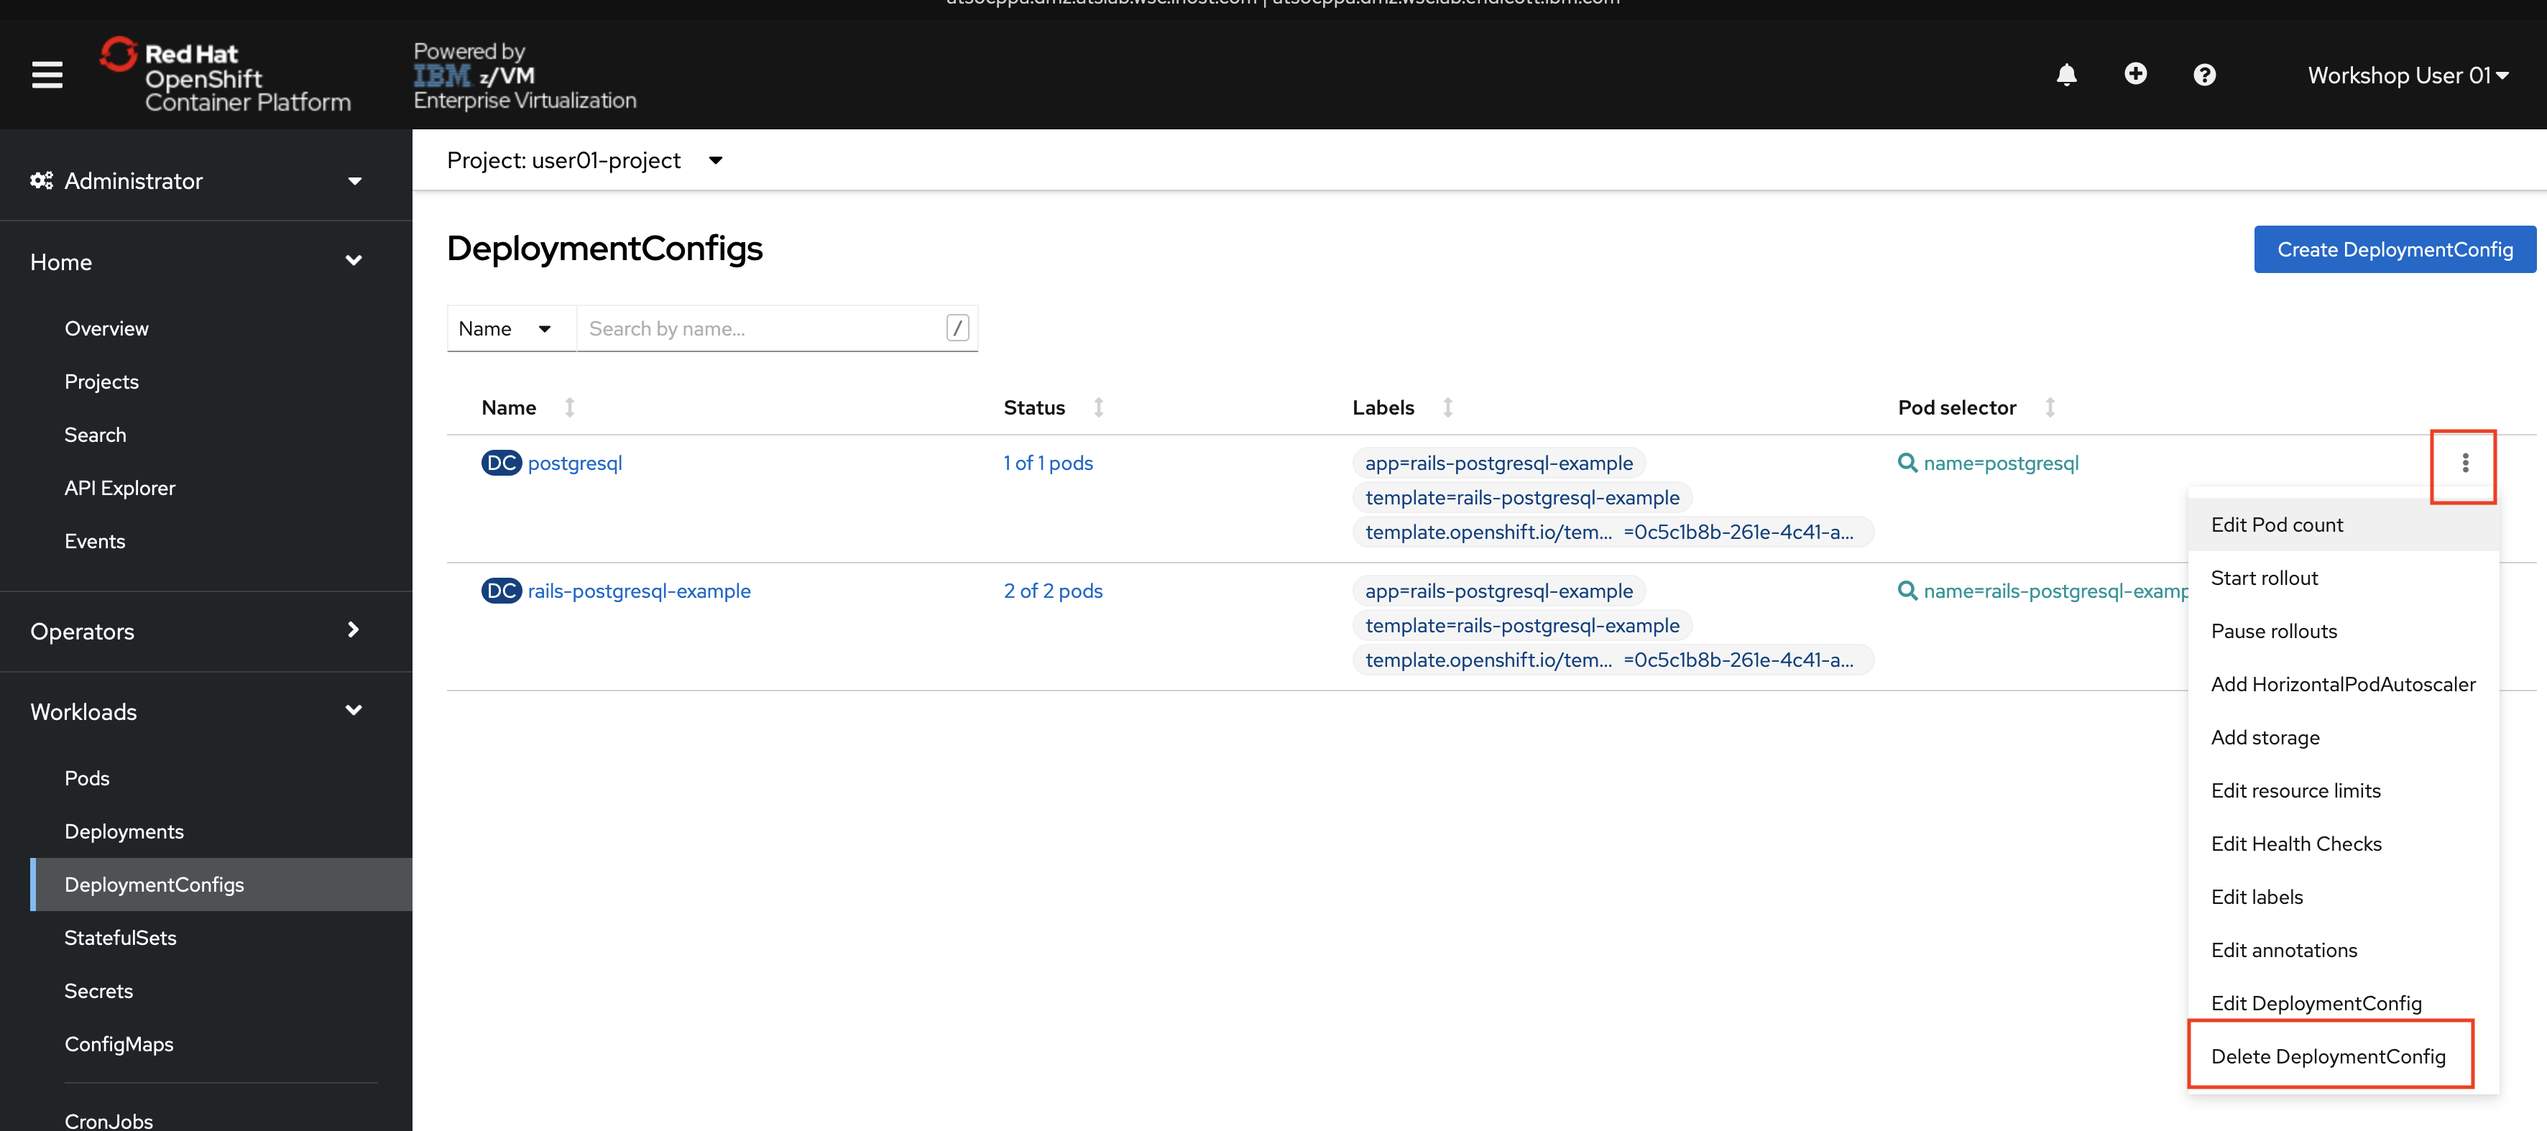
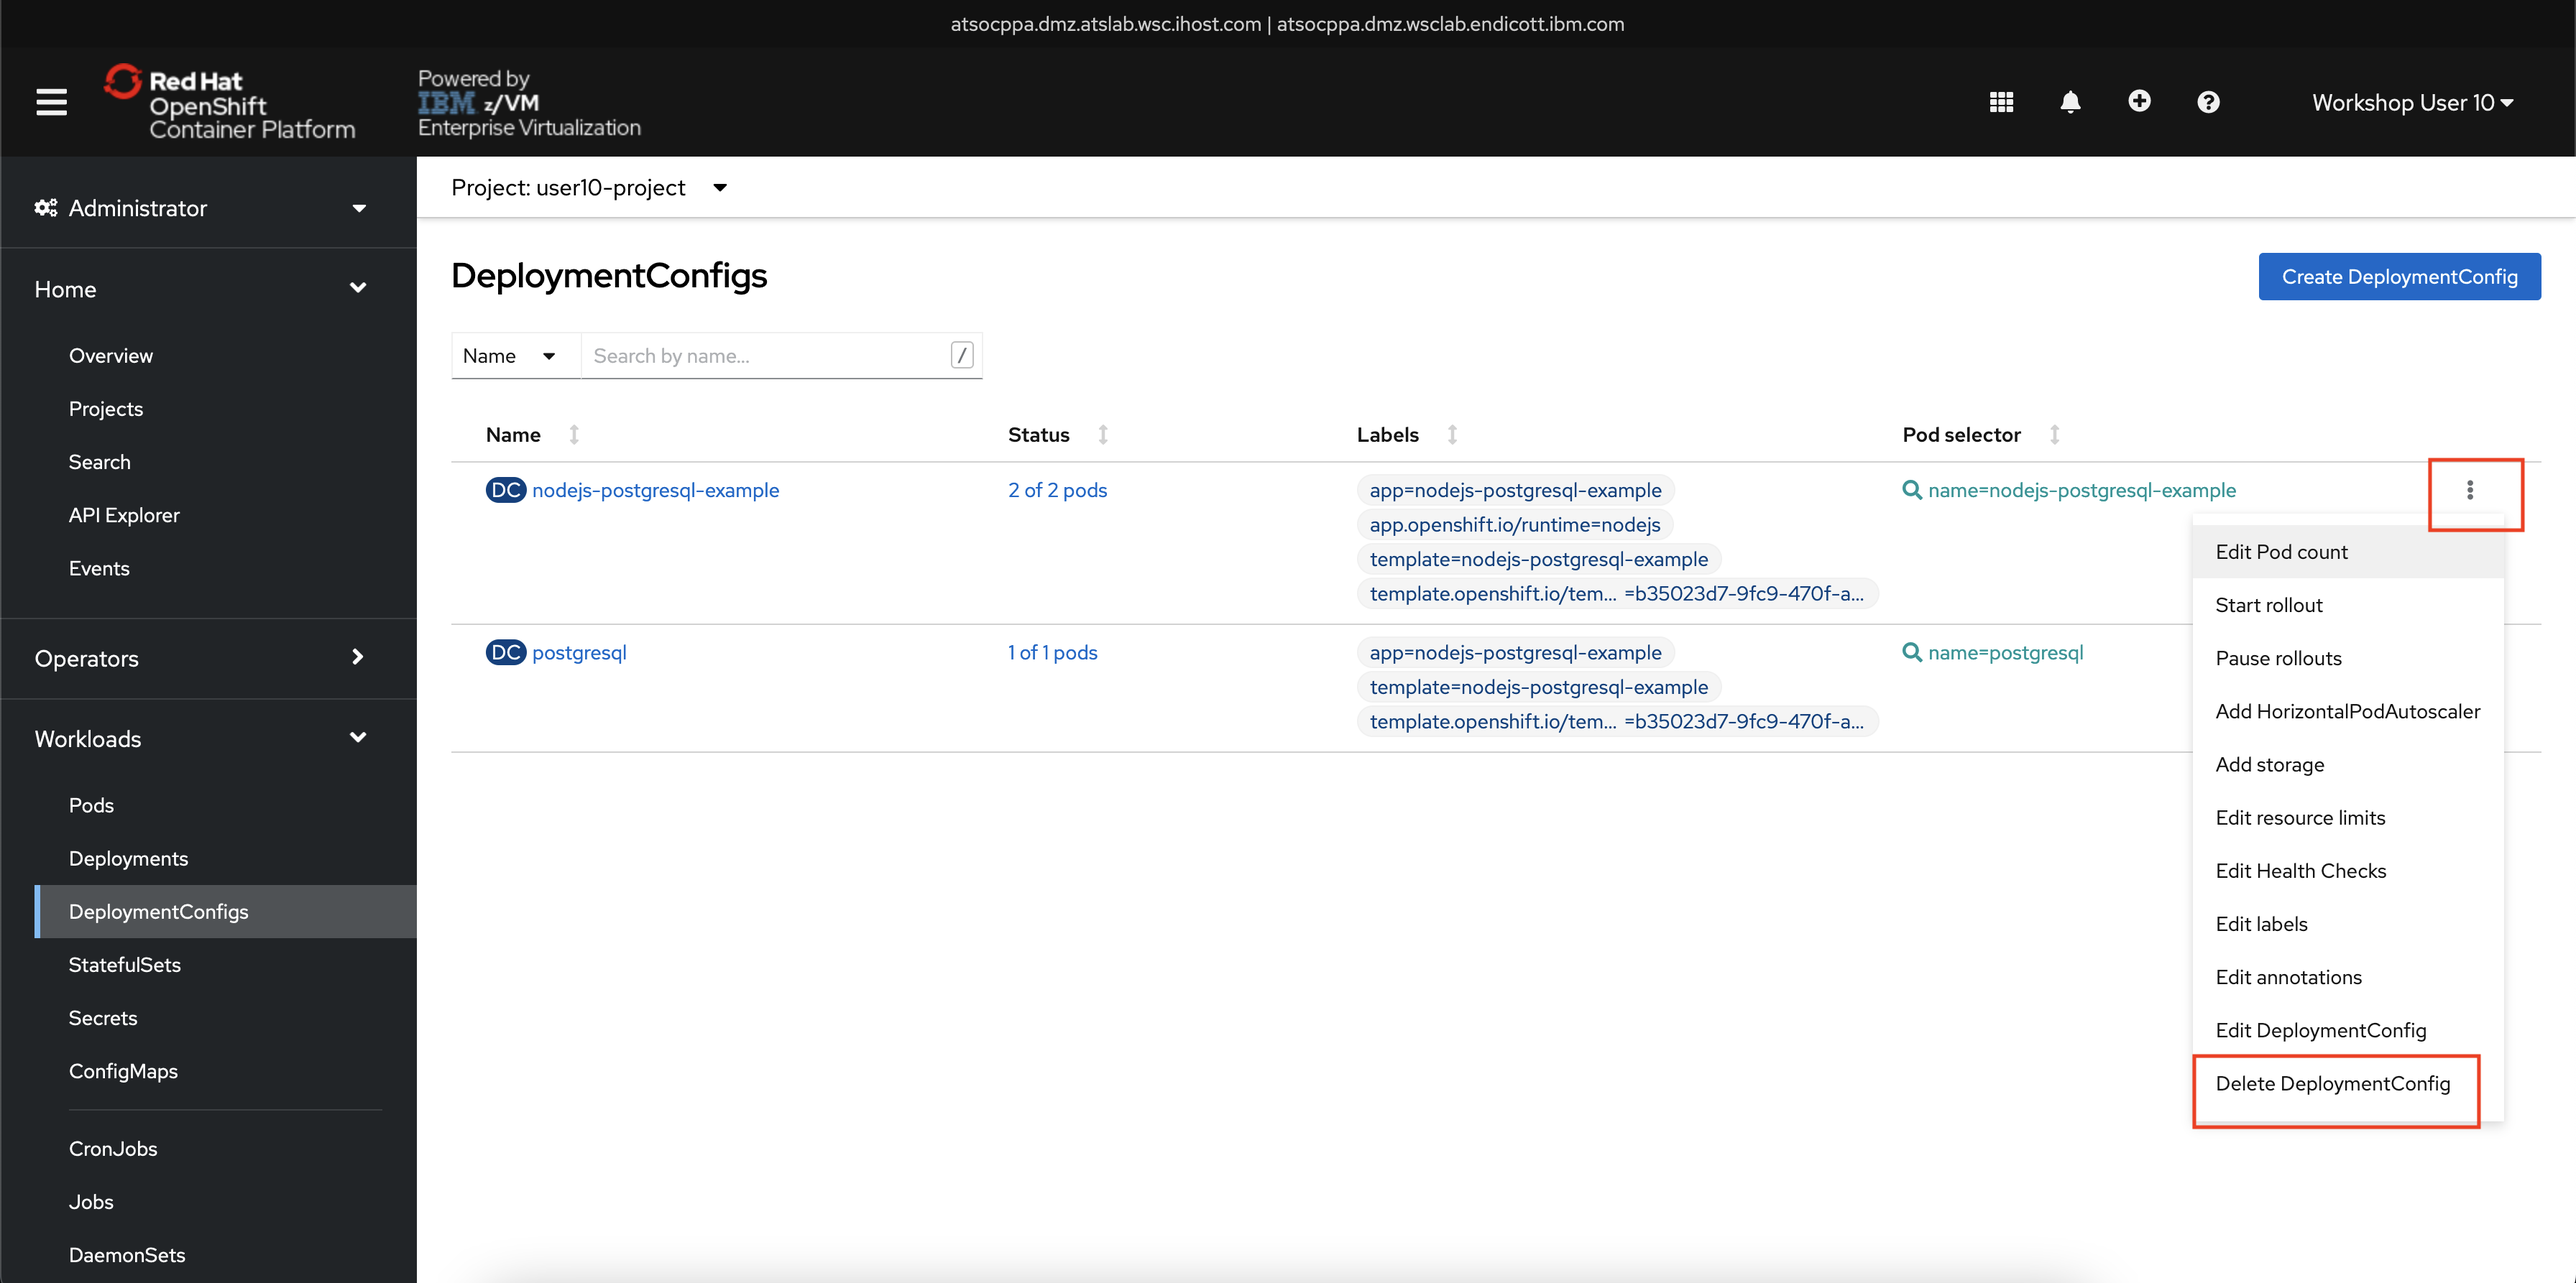
update lab 1
replaced rails-postgres sample application with a nodejs.-postgres one. nodejs is much faster to build and deploy.

diff --git a/docs/lab001/lab001-5.md b/docs/lab001/lab001-5.md
@@ -2,7 +2,7 @@
 
 In this section, you will be building a sample application from a template. The template will create two pods:
 
-* A Ruby on Rails blogging application from source code in GitHub
+* A Node.js inventory management application from source code in GitHub
 
 * A PostgreSQL database from a container image
 
@@ -13,23 +13,23 @@ In this section, you will be building a sample application from a template. The 
 
     This brings up the OpenShift Developer catalog containing all types of applications you can deploy including Operators, Helm Charts, Templates, and more.
 
-1. **Find and click the Rails + PostgreSQL (Ephemeral) tile**.
+1. **Find and click the Node.js + PostgreSQL (Ephemeral) tile**.
 
     !!! Tip
-        You can search for *Rails + PostgreSQL (Ephemeral*) in the search bar.
+        You can search for *Node.js + PostgreSQL (Ephemeral)* in the search bar.
 
-    ![rails-tile.png](../images/rails-tile.png)
+    ![nodejs-postgres-template.png](../images/nodejs-postgres-template.png)
 
 1. **Click Instantiate Template** on the next screen that appears.
 
-    You are brought to a page full of configurable parameters that you can edit if so desired. Notice that all of the required fields on this page automatically populate. You can read through all of the options, but there is no need to edit any of them.
+    You are brought to a page full of configurable parameters that you can edit if necessary. Notice that all of the required fields on this page automatically populate. You can read through all of the options, but there is no need to edit any of them for this lab.
 
-1. **Click the Create button** at the bottom of the page.
+2. **Click the Create button** at the bottom of the page.
 
     You will now be taken to the topology view, where you will see two icons – one for each of the two workload pods that the template will create. If you don’t see the icons right away, you may need to refresh your browser window.
 
     ???+ Info
-        The Ruby on Rails application will take a few minutes to fully deploy, while the PostgreSQL application will deploy in just a few seconds. The reason for this difference is that the Ruby application is being built (containerized) from Ruby source code located in the GitHub repository located here: <https://github.com/sclorg/rails-ex.git> into a container image, and then deployed. If you would like to watch the steps that OpenShift is taking to build the containerized application, **click the circle labeled rails-postgresql-example, click the Resources tab, and click View Logs in the Builds section**.
+        The Node.js application will take a minute or so to fully deploy, while the PostgreSQL application will deploy in just a few seconds. The reason for this difference is that the Node.js application is being built (containerized) from javascript source code located in the GitHub repository located here: <https://github.com/nodeshift-starters/nodejs-rest-http-crud.git> into a container image, and then deployed. If you would like to watch the steps that OpenShift is taking to build the containerized application, **click the circle labeled nodejs-postgresql-example, click the Resources tab, and click View Logs in the Builds section**. Alternatively, you can click on the small circular button to the bottom-left of the Node.js icon on the topology page.
 
         The PostgreSQL application, on the other hand, is deployed from a pre-built container image hosted in quay.io, so it takes much less time to start up.
 
@@ -37,21 +37,21 @@ In this section, you will be building a sample application from a template. The 
 
     ![running-pods.png](../images/running-pods.png)
 
-1. **Click the icon for the rails-postgresql-example application**. This will bring up a window on the right side of the screen with information about your DeploymentConfig.
+3. **Click the icon for the nodejs-postgresql-example application**. This will bring up a window on the right side of the screen with information about your DeploymentConfig.
 
-1. **Click the Details tab** if it is not already selected.
+4. **Click the Details tab** if it is not already selected.
 
-    ![rails-details.png](../images/rails-details.png)
+    ![nodejs-details.png](../images/nodejs-details.png)
 
     Here you’ll see information about your DeploymentConfig. Notice that many of the fields such as Labels, Update Strategy, and more have been populated with default values. These can be modified.
 
-1. **Click the Actions dropdown**.
+5. **Click the Actions dropdown**.
 
     ![actions-dropdown.png](../images/actions-dropdown.png)
 
     Many application configurations can be modified from this menu, along with other tasks such as starting or pausing a rollout, or deleting the deployment configuration.
 
-1. **Click the up arrow** next to the blue circle.
+6. **Click the up arrow** next to the blue circle.
 
     ![scaling-up.png](../images/scaling-up.png)
 
@@ -60,39 +60,29 @@ In this section, you will be building a sample application from a template. The 
     ![scaled-up.png](../images/scaled-up.png)
 
     ???+ Note
-        This is a simple demonstration of horizontal scaling with Kubernetes. You now have two instances of your pod running in the OpenShift cluster. Traffic to the Rails application will now be distributed to each pod, and if for some reason a pod is lost, that traffic will be redistributed to the remaining pods until a Kubernetes starts another. If a whole compute node is lost, Kubernetes will move the pods to different compute nodes.
+        This is a simple demonstration of horizontal scaling with Kubernetes. You now have two instances of your pod running in the OpenShift cluster. Traffic to the Node.js application will now be distributed to each pod, and if for some reason a pod is lost, that traffic will be redistributed to the remaining pods until a Kubernetes starts another. If a whole compute node is lost, Kubernetes will move the pods to different compute nodes.
 
         OpenShift and Kubernetes also support autoscaling of pods based on CPU or memory consumption, but that is outside the scope of this lab.  
 
-1. **Click the Resources tab**.
+7. **Click the Resources tab**.
 
     ![resources-tab.png](../images/resources-tab.png)
 
-    Notice the two pods associated with your Rails application. On this page, you’ll see more information about your pods, any build configurations currently running or completed, and the services/ports associated with the pod.
+    Notice the two pods associated with your Node.js application. On this page, you’ll see more information about your pods, any build configurations currently running or completed, and the services/ports associated with the pod.
 
-1. **Click the route address at the bottom of the resources tab**.
+8. **Click the route address at the bottom of the resources tab**.
 
     ??? "Expand for a Tip"
-        You could also access this route by clicking on the external link icon associated with your Rails pod on the Topology view.
+        You could also access this route by clicking on the external link icon associated with your Node.js pod on the Topology view.
 
         ![external-link.png](../images/external-link.png)
 
-    ![rails-dashboard.png](../images/rails-dashboard.png)
+    ![nodejs-homepage.png](../images/nodejs-homepage.png)
 
-    If you see the page above, your Rails application is up and running. You just deployed a Ruby on Rails application from source code residing in GitHub, and connected it to a PostgreSQL container deployed from a container image pulled from quay.io into OpenShift running on an IBM Z server.
+    If you see the page above, your Node.js application is up and running. You just deployed a Node.js application from source code residing in GitHub, and connected it to a PostgreSQL container deployed from a container image pulled from quay.io into OpenShift running on an IBM Z server.
 
-    Feel free to read through the Rails application homepage to learn more about what this application can do.
+9. **Add your favorite fruit and a quantity in the two fields and click Save**.
 
-1. **Add** `/articles` **to the end of the Rails homepage URL**.
-
-    This will result in a URL like the following:
-
-    <http://rails-postgresql-example-userNN-project.apps.atsocppa.dmz/articles>
-
-    Where `NN` is your user number.
-
-    ![listing-articles.png](../images/listing-articles.png)
-
-    You are now interacting with the blogging application that’s shipped with the Rails source code. If you create a new article, the contents for the Title and Body are stored in the PostgreSQL database in the other pod that makes up this application.
+    You are now interacting with the fruit stock management application that’s shipped with the Node.js source code. When you edit the fruit inventory, the fruit name and quantity are stored in the PostgreSQL database in the other pod that makes up this application. Because we deployed the *ephemeral* Postgres pod, there is no persistent storage backing this data. Whenever the Postgres pod is regenerated or scales up or down, all changes will be lost. Making these changes persistent (in the case of a stateful application like a database) is the topic for [another lab](../lab006/lab006-1.md).
 
     In the next section you will navigate back to the Administrator perspective to see the overview of your project with a workload running.

diff --git a/docs/lab001/lab001-6.md b/docs/lab001/lab001-6.md
@@ -17,8 +17,4 @@
     This page is populated with all of the events associated with your project, including errors, container creation messages, pod scaling and deletion, and much more. You can filter by type, category, or by searching for keywords.
 
     ???+ Note
-        Feel free to click through a few more pages from the left-side main menu. You’ll notice a few of them have objects created as a part of the Rails-PostgreSQL application, such as Workloads  Pods, Networking  Services and Routes, Builds  Image Streams. These were all created as part of the template package.
-
-1. **Navigate back your project** as in the previous step (or by clicking your browser’s back button).
-
-1. **Find the Inventory on the project page** which lists all of the objects created as part of your application
+        Feel free to click through a few more pages from the left-side main menu. You’ll notice a few of them have objects created as a part of the Node.js-PostgreSQL application, such as Workloads -> Pods, Networking -> Services and Routes, Builds -> Image Streams. These were all created as part of the template package.

diff --git a/docs/lab001/lab001-4.md b/docs/lab001/lab001-4.md
@@ -14,7 +14,7 @@
 
         * *Topology*: Displays all of the deployed workloads in the currently selected project.
 
-        * *Monitoring*: Lets you view the monitoring dashboard for just this project.
+        * *Observe*: Lets you view the monitoring dashboard for the current project.
 
         * *Search*: Used to search for any type of API resource present in this project, provided you have access to that resource type.
 
